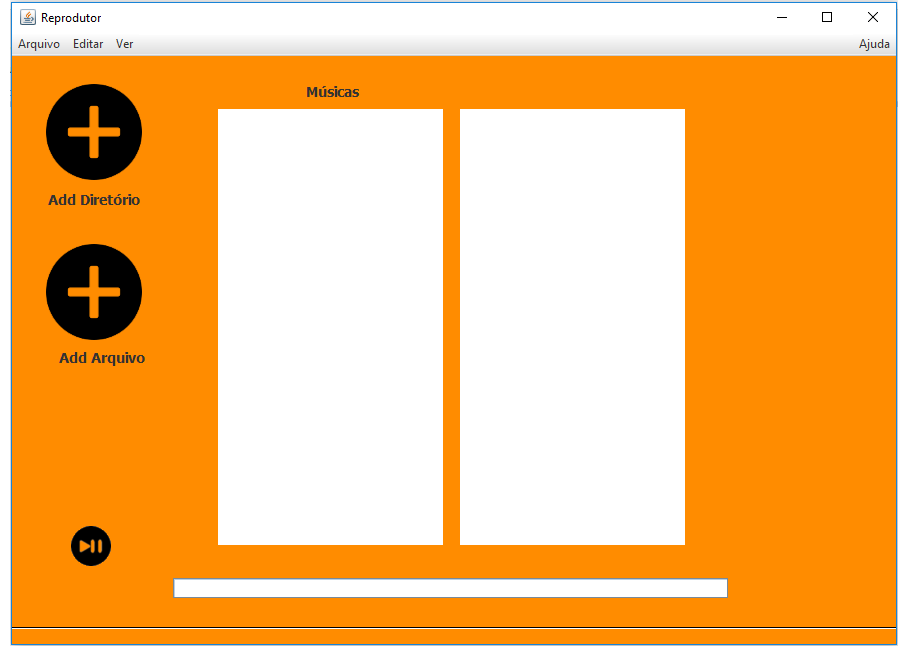
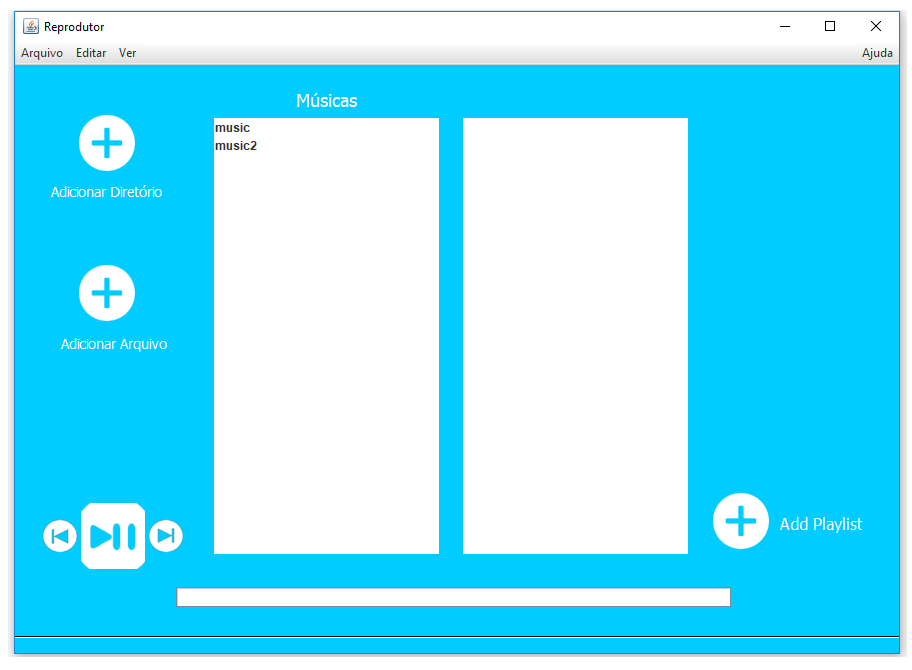
atualizando o README

diff --git a/src/telas/MediaPlayer.java b/src/telas/MediaPlayer.java
@@ -239,8 +239,8 @@ public class MediaPlayer {
 
 		JLabel lblAddDiretrio = new JLabel("Adicionar Diret\u00F3rio");
 		lblAddDiretrio.setForeground(new Color(255, 255, 255));
-		lblAddDiretrio.setFont(new Font("Tahoma", Font.BOLD, 14));
-		lblAddDiretrio.setBounds(36, 126, 157, 26);
+		lblAddDiretrio.setFont(new Font("Tahoma", Font.PLAIN, 14));
+		lblAddDiretrio.setBounds(36, 113, 157, 26);
 		frmPlayer.getContentPane().add(lblAddDiretrio);
 
 	}
@@ -271,13 +271,19 @@ public class MediaPlayer {
 			System.err.println( e.getMessage() );
 		}
 		
-		addPlayList.setBounds(677, 423, 72, 66);
+		addPlayList.setBounds(690, 423, 72, 66);
 		addPlayList.setVisible(true);
 		addPlayList.setBorderPainted(false);
 		addPlayList.setOpaque(false);
 		addPlayList.setFocusPainted( false );
 
 		frmPlayer.getContentPane().add(addPlayList);
+		
+		JLabel lblAddPlaylist = new JLabel("Add Playlist");
+		lblAddPlaylist.setFont(new Font("Tahoma", Font.PLAIN, 16));
+		lblAddPlaylist.setForeground(new Color(255, 255, 255));
+		lblAddPlaylist.setBounds(764, 446, 90, 26);
+		frmPlayer.getContentPane().add(lblAddPlaylist);
 		
 	}
 	
@@ -311,7 +317,7 @@ public class MediaPlayer {
 			System.err.println( e.getMessage() );
 		}
 		
-		addDiretorio.setBounds(36, 190, 113, 88);
+		addDiretorio.setBounds(36, 190, 113, 76);
 		addDiretorio.setVisible(true);
 		addDiretorio.setBorderPainted(false);
 		addDiretorio.setOpaque(false);
@@ -328,8 +334,8 @@ public class MediaPlayer {
 	
 		JLabel lblAddArquivo = new JLabel("Adicionar Arquivo");
 		lblAddArquivo.setForeground(new Color(255, 255, 255));
-		lblAddArquivo.setFont(new Font("Tahoma", Font.BOLD, 14));
-		lblAddArquivo.setBounds(36, 277, 145, 20);
+		lblAddArquivo.setFont(new Font("Tahoma", Font.PLAIN, 14));
+		lblAddArquivo.setBounds(46, 268, 145, 20);
 		frmPlayer.getContentPane().add(lblAddArquivo);
 		
 	}
@@ -367,7 +373,7 @@ public class MediaPlayer {
 			System.err.println( e.getMessage() );
 		}
 		
-		addArquivo.setBounds(36, 41, 113, 88);
+		addArquivo.setBounds(36, 41, 113, 74);
 		addArquivo.setVisible(true);
 		addArquivo.setBorderPainted(false);
 		addArquivo.setOpaque(false);
@@ -390,7 +396,7 @@ public class MediaPlayer {
 		
 		JLabel lblMsicas = new JLabel("M\u00FAsicas");
 		lblMsicas.setForeground(new Color(255, 255, 255));
-		lblMsicas.setFont(new Font("Tahoma", Font.BOLD, 14));
+		lblMsicas.setFont(new Font("Tahoma", Font.PLAIN, 18));
 		lblMsicas.setBounds(281, 28, 79, 14);
 		frmPlayer.getContentPane().add(lblMsicas);
 	
